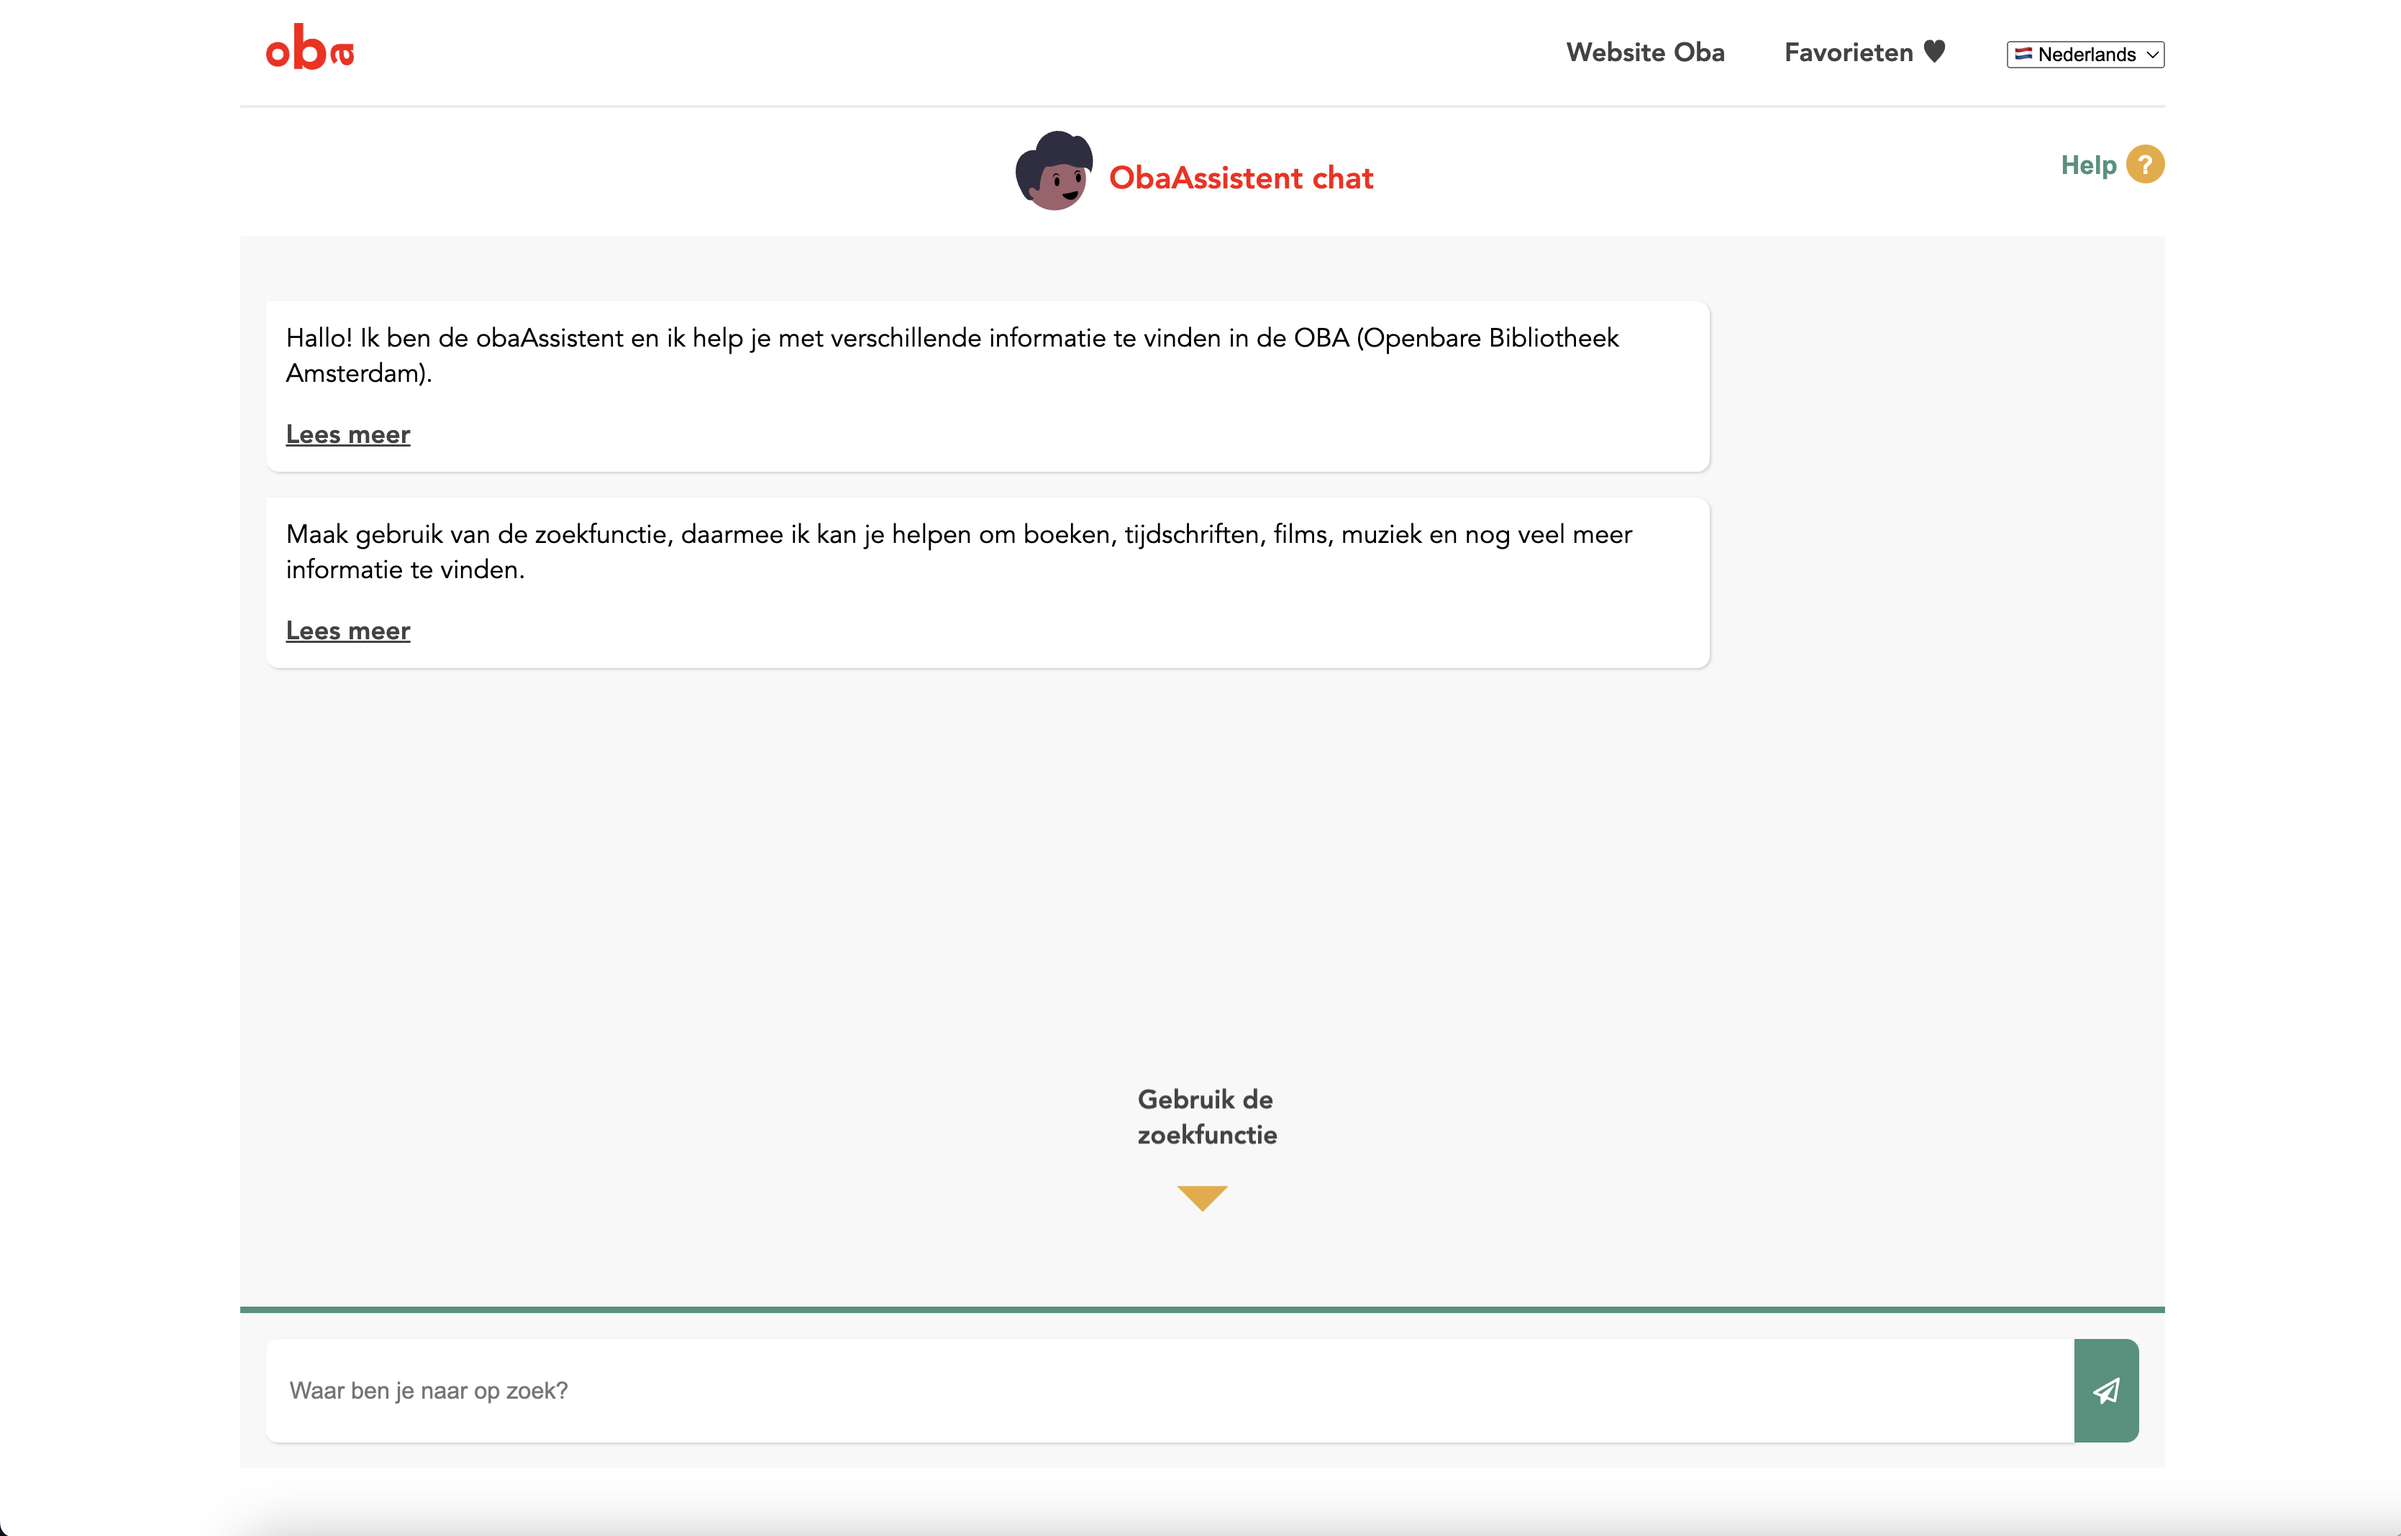
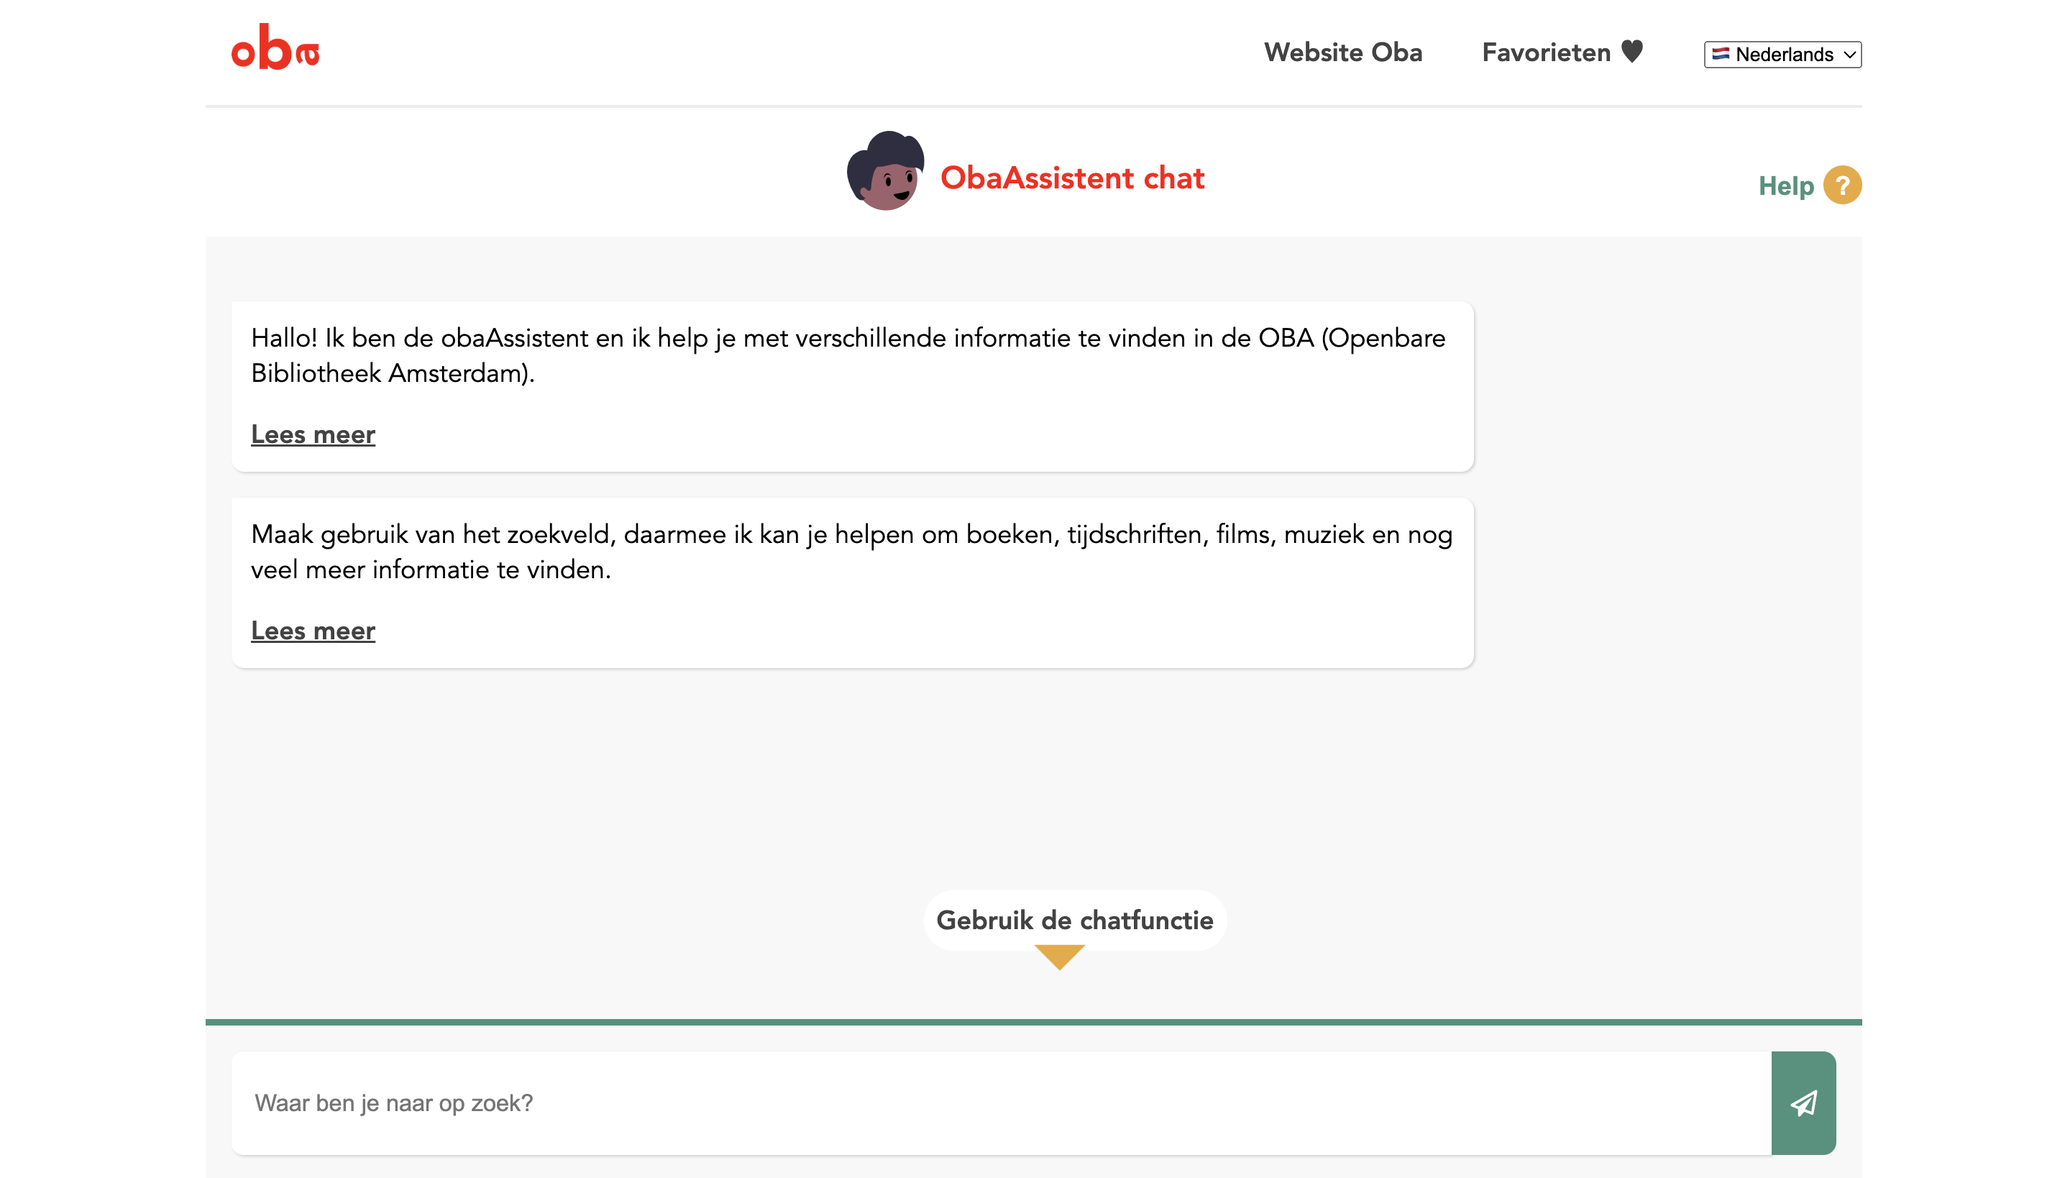
💄

diff --git a/public/css/chatStyle.css b/public/css/chatStyle.css
@@ -26,7 +26,7 @@
   --black: #434343;
   --alabaster: #f8f8f8;
   --shadow-down-light: 1px 1px 2px rgba(0, 0, 0, 0.16);
-  --yellow: #EBA934;
+  --yellow: #eba934;
 }
 
 /* Hidden information or elements */
@@ -109,17 +109,17 @@ button#searchButton {
   transition: 0.25s ease;
 }
 
-.readMoreStateIntro:checked~.readMoreWrap .readMoreTarget {
+.readMoreStateIntro:checked ~ .readMoreWrap .readMoreTarget {
   opacity: 1;
   font-size: inherit;
   max-height: 999em;
 }
 
-.readMoreStateIntro~.readMoreTrigger:before {
+.readMoreStateIntro ~ .readMoreTrigger:before {
   content: "Lees meer";
 }
 
-.readMoreStateIntro:checked~.readMoreTrigger:before {
+.readMoreStateIntro:checked ~ .readMoreTrigger:before {
   content: "Lees minder";
 }
 
@@ -127,7 +127,7 @@ button#searchButton {
   margin: 1rem 0;
 }
 
-.readMoreWrap>p:nth-of-type(1) {
+.readMoreWrap > p:nth-of-type(1) {
   margin-top: 0;
 }
 
@@ -144,14 +144,16 @@ button.readMoreBtn:focus {
   border: none !important;
 }
 
-label.readMoreTrigger, button.readMoreBtn {
+label.readMoreTrigger,
+button.readMoreBtn {
   font-weight: bold;
   color: var(--black);
   text-decoration: underline;
   cursor: pointer;
 }
 
-label.readMoreTrigger:hover, button.readMoreBtn:hover {
+label.readMoreTrigger:hover,
+button.readMoreBtn:hover {
   color: var(--green);
 }
 
@@ -333,7 +335,7 @@ button:focus,
   gap: 0.5em;
 }
 
-.itemDetailsDiv>article {
+.itemDetailsDiv > article {
   margin-left: 0rem;
 }
 
@@ -436,13 +438,16 @@ p.speechOba {
   top: 80%;
 }
 
-.arrowDownSearch::after {
-  content: "Gebruik het zoekveld";
+.arrowText {
   position: absolute;
-  left: -2.5rem;
-  top: -5rem;
+  top: 78%;
+  left: 52%;
+  transform: translate(-50%, -50%);
   font-weight: bold;
-  color:var(--black);
+  color: var(--black);
+  background-color: #fff;
+  padding: 0.5rem;
+  border-radius: 1.5rem;
 }
 
 @keyframes arrowDownAnimation {
@@ -463,7 +468,6 @@ p.speechOba {
 /*   WEBSITE MODE    */
 /*********************/
 @media (min-width: 40em) {
-
   #itemDetails article,
   .itemDetailCatalogus,
   .itemDetailsDiv.active {
@@ -497,7 +501,7 @@ p.speechOba {
     display: flex;
   }
 
-  .itemDetailsDiv>article {
+  .itemDetailsDiv > article {
     margin-left: 1rem;
   }
 
@@ -516,7 +520,8 @@ div.itemButtons {
 }
 
 /* Delen link */
-button.shareLink:hover, button.itemFavo:hover {
+button.shareLink:hover,
+button.itemFavo:hover {
   text-decoration: underline;
   gap: 1em;
   font-weight: 800;

diff --git a/public/css/navStyle.css b/public/css/navStyle.css
@@ -328,7 +328,7 @@ select {
   width: 90%;
   margin: 10% auto;
   padding: 1rem;
-  height: 75vh;
+  /* height: 75vh; */
 }
 
 .modalContent img {
@@ -351,9 +351,10 @@ select {
   box-shadow: var(--nav-shadow);
 }
 
-.instructionImages h3,
-p {
-  /* text-align: center; */
+.contentImagesText {
+  max-width: 50vw;
+  margin: 0 auto;
+  padding: 1rem 0;
 }
 
 /* button container vorige & volgende*/
